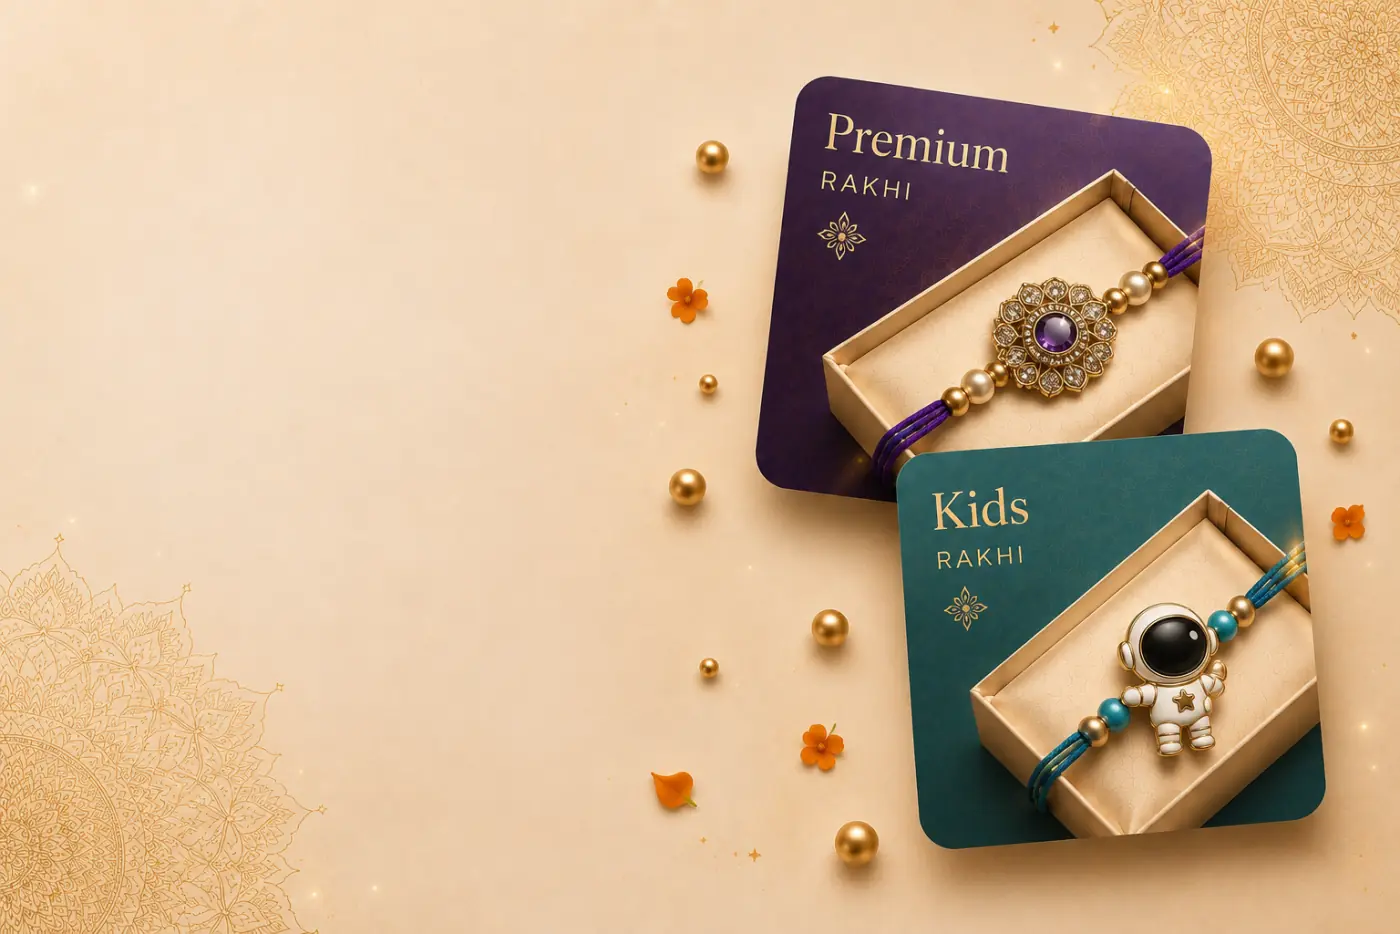
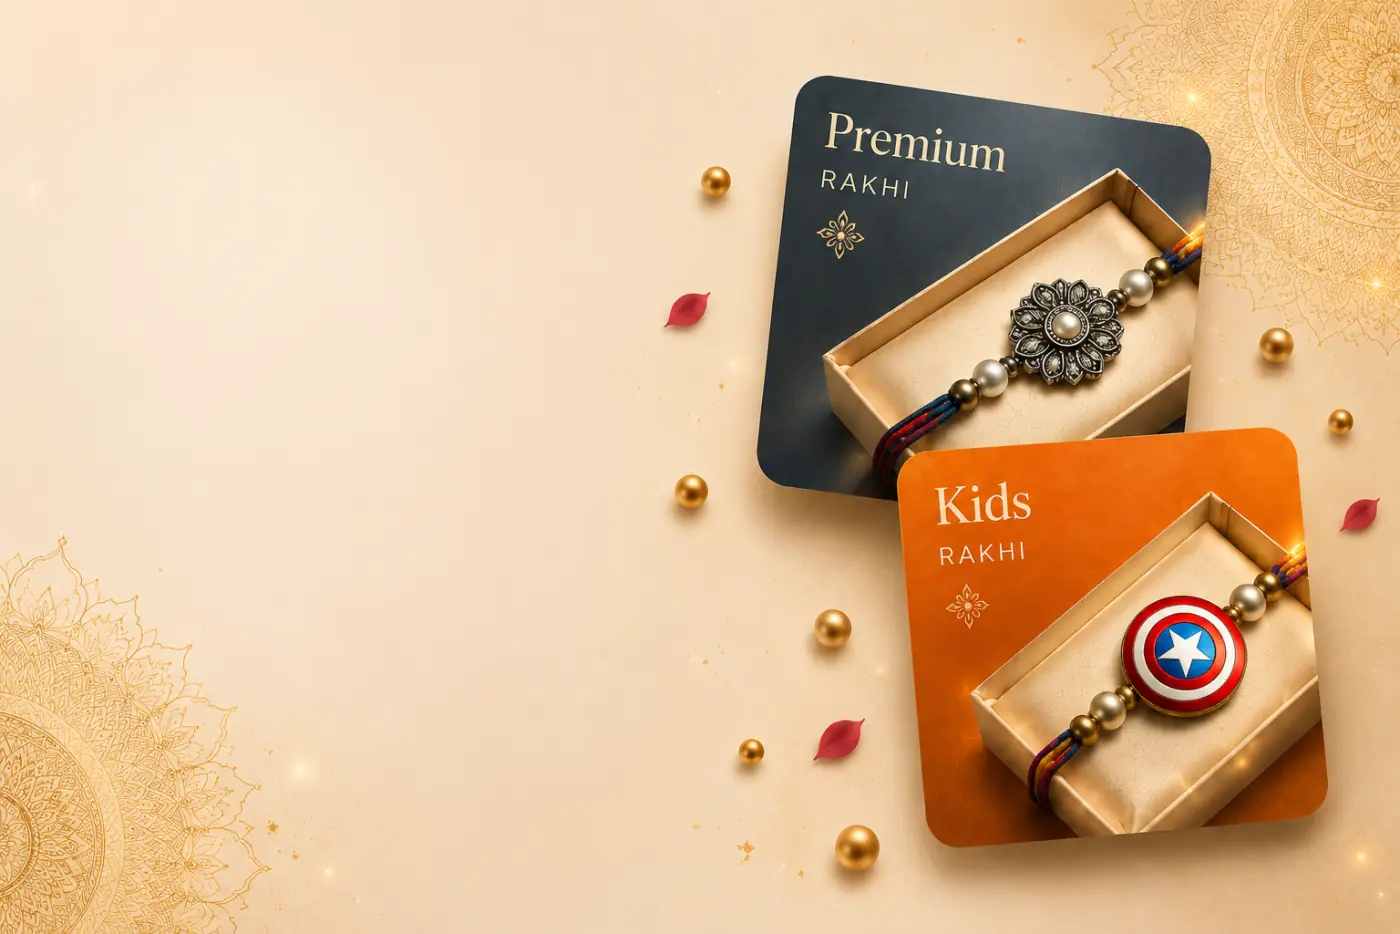
Hero: rebuild the phone picture instead of cropping into it
The photographs are 3:2 and a phone hero is not, so cover was zooming
into them until the boxes crowded the words, and enlarging a 720px
file to do it — enlarged again by the screen. That was the blur, and
the heavy wash laid over it to keep the headline readable was hiding
the picture it was there to show.

So the phone gets its own file. The whole photograph, uncropped, on a
taller sheet of card stock continued from its own edge rows, boxes
centred in it. Cover now has nothing to crop and nothing to stretch;
the wash is barely there because the words sit on stock that is
already empty.

Slide one is the image from the mockup — Premium in navy, Kids in
orange — rather than the purple and teal pair.

The hero is 44vh on a phone and the words start at the top of it
rather than centred, which is what was bringing the date pill down
level with a box corner.

Not pushed.

diff --git a/src/shop/styles/05-hero.css b/src/shop/styles/05-hero.css
@@ -13,16 +13,27 @@
 
    Which means the crop is the whole design. On a wide screen
    the picture is anchored right and the words take the left.
-   On a phone there is no left, so the picture is pushed down
-   instead: cream at the top for the words, boxes underneath.
+   A phone has no left half to give, so it gets a different
+   file: the whole photograph on a taller sheet of its own
+   card stock, the boxes centred in it, the words above.
    ══════════════════════════════════════════════════════════ */
 
 .hero{
   position:relative; isolation:isolate; overflow:hidden;
-  display:flex; align-items:center;
-  min-height:clamp(540px,118vw,600px);
+  display:flex;
+  /* well under half a phone screen — what is below the fold has to be
+     worth scrolling to, and a hero that fills the window says there is
+     nothing under it */
+  min-height:min(44vh,420px);
+  /* On a phone the words start at the top rather than sitting centred with
+     the picture. Centred, the date pill came down level with the boxes and
+     crossed the corner of one; up here it has the empty stock to itself. */
+  align-items:flex-start;
+  padding-top:clamp(16px,4.5vw,30px);
 }
-@media (min-width:760px){.hero{min-height:clamp(560px,62vw,720px)}}
+@media (min-width:760px){
+  .hero{min-height:clamp(560px,58vw,700px); align-items:center; padding-top:0}
+}
 
 /* ── the pictures ── */
 .hero-stage{position:absolute; inset:0; z-index:-1}
@@ -30,14 +41,16 @@
   position:absolute; inset:0;
   background-repeat:no-repeat;
   background-size:cover;
-  /* phone: the boxes ride the bottom-right, the words sit on the cream above */
-  background-position:78% 82%;
+  /* The phone copy is built at the shape of the phone hero, so cover has
+     nothing to crop and nothing to enlarge — which is all the blur ever
+     was: a 3:2 photograph stretched over a portrait box, then stretched
+     again by the screen. Wide, the original goes hard against the right
+     and the empty half of it becomes the column the words sit in. */
+  background-position:center;
   opacity:0;
   transition:opacity 1.1s var(--ease);
 }
-@media (min-width:760px){
-  .hero-slide{background-position:right center}
-}
+@media (min-width:760px){.hero-slide{background-position:right center}}
 .hero-slide.is-on{opacity:1}
 
 .hero-slide.s1{background-image:url("../../assets/images/hero-1-sm.webp")}
@@ -53,31 +66,27 @@
    fetch three photographs while it still owes the customer the first one. */
 .hero-slide.is-late{background-image:none}
 
-/* Pale card stock, deepened. Left to right on a wide screen, top to bottom
-   on a phone — the same idea rotated, because the empty part of the picture
-   moves when the crop does. */
+/* Barely there. The photographs already have an empty
+   half — that is what they were made for — so this only has to even out the
+   card stock under the words, not hide the picture. The heavy wash was
+   covering the thing it was meant to show. */
 .hero-veil{
   position:absolute; inset:0;
-  /* A phone is the hard one. There is no empty left half to write in — the
-     words run the full width and the boxes are behind all of them — so the
-     wash has to hold most of the way down and only let the picture through
-     under the button. Thinner than this and a headline crosses a bead. */
+  /* Almost nothing on a phone: the words sit on card stock that is already
+     empty, so this only has to steady it. */
   background:linear-gradient(to bottom,
-    rgba(251,246,236,.97) 0%,
-    rgba(251,246,236,.94) 34%,
-    rgba(251,246,236,.88) 56%,
-    rgba(251,246,236,.62) 72%,
-    rgba(251,246,236,.18) 88%,
-    rgba(251,246,236,0) 100%);
+    rgba(251,246,236,.55) 0%,
+    rgba(251,246,236,.34) 38%,
+    rgba(251,246,236,.06) 60%,
+    rgba(251,246,236,0) 74%);
 }
 @media (min-width:760px){
   .hero-veil{
     background:linear-gradient(to right,
-      rgba(251,246,236,.96) 0%,
-      rgba(251,246,236,.90) 24%,
-      rgba(251,246,236,.55) 42%,
-      rgba(251,246,236,.08) 58%,
-      rgba(251,246,236,0) 70%);
+      rgba(251,246,236,.80) 0%,
+      rgba(251,246,236,.52) 24%,
+      rgba(251,246,236,.18) 40%,
+      rgba(251,246,236,0) 56%);
   }
 }
 
@@ -86,8 +95,7 @@
 .hero-copy{
   display:flex; flex-direction:column; align-items:flex-start;
   max-width:min(100%,30ch);
-  /* on a phone the picture owns the lower half, so the words take the upper */
-  padding-top:8px; margin-bottom:auto;
+  padding-top:0; margin-bottom:auto;
 }
 @media (min-width:760px){
   .hero-copy{max-width:min(50%,25ch); margin-bottom:0; padding-top:0}
@@ -96,11 +104,11 @@
 /* the countdown — the one thing here that actually expires */
 .hero-when{
   display:inline-flex; align-items:center; gap:8px;
-  padding:9px 16px; border-radius:var(--r-full);
+  padding:7px 13px; border-radius:var(--r-full);
   background:rgba(255,251,242,.86);
   box-shadow:inset 0 0 0 1px rgba(217,184,119,.9);
   color:#8A681C;
-  font-family:var(--head); font-size:10.5px; font-weight:600;
+  font-family:var(--head); font-size:clamp(9px,2.3vw,10.5px); font-weight:600;
   letter-spacing:.085em; text-transform:uppercase; white-space:nowrap;
 }
 .hero-when svg{flex:none; opacity:.85}
@@ -109,9 +117,9 @@
    two words under it read as an occasion rather than a page title */
 .hero-eyebrow{
   display:flex; align-items:center; gap:14px;
-  margin-top:clamp(20px,4vw,30px);
+  margin-top:clamp(11px,2.8vw,30px);
   font-family:var(--display); font-weight:400; font-style:italic;
-  font-size:clamp(21px,5.4vw,30px); line-height:1;
+  font-size:clamp(18px,4.6vw,30px); line-height:1;
   color:var(--gold);
 }
 .hero-eyebrow::before, .hero-eyebrow::after{
@@ -120,24 +128,24 @@
 }
 
 .hero-h1{
-  margin-top:clamp(6px,1.4vw,12px);
+  margin-top:clamp(2px,.8vw,12px);
   font-family:var(--display); font-weight:600;
-  font-size:clamp(42px,11.6vw,92px); line-height:.98; letter-spacing:-.03em;
+  font-size:clamp(30px,8.2vw,92px); line-height:1.02; letter-spacing:-.03em;
   color:#3B2415;                      /* warmer than body ink; it sits on cream */
   text-wrap:balance;
 }
 
 .hero-flourish{
-  display:block; width:clamp(150px,44vw,230px); height:14px;
-  margin-top:clamp(12px,2.4vw,20px);
+  display:block; width:clamp(120px,34vw,230px); height:12px;
+  margin-top:clamp(7px,1.8vw,20px);
   color:rgba(185,140,46,.85);
 }
 .hero-flourish svg{width:100%; height:100%}
 
 .hero-p{
-  margin-top:clamp(14px,2.6vw,22px);
+  margin-top:clamp(9px,2.2vw,22px);
   font-family:var(--display); font-weight:400;
-  font-size:clamp(17px,4.4vw,24px); line-height:1.36; color:#4A3524;
+  font-size:clamp(14px,3.5vw,24px); line-height:1.34; color:#4A3524;
 }
 .hero-p em{font-style:italic; color:var(--gold)}
 
@@ -145,12 +153,12 @@
    is the entire reason it is the thing you press. */
 .hero-btn{
   display:inline-flex; align-items:center; gap:12px;
-  margin-top:clamp(22px,3.6vw,32px);
-  padding:15px 30px; min-height:52px;
+  margin-top:clamp(15px,3vw,32px);
+  padding:clamp(10px,2.4vw,15px) clamp(20px,5vw,30px); min-height:0;
   border-radius:var(--r-full);
   background:linear-gradient(160deg,#9B2226 0%,#7A1418 58%,#6A1114 100%);
   color:#FFF6E8; text-decoration:none;
-  font-family:var(--head); font-size:13px; font-weight:600;
+  font-family:var(--head); font-size:clamp(11px,2.7vw,13px); font-weight:600;
   letter-spacing:.11em; text-transform:uppercase; white-space:nowrap;
   box-shadow:0 14px 30px -14px rgba(106,17,20,.75), inset 0 1px 0 rgba(255,255,255,.16);
   transition:transform .45s var(--ease), box-shadow .45s var(--ease);
